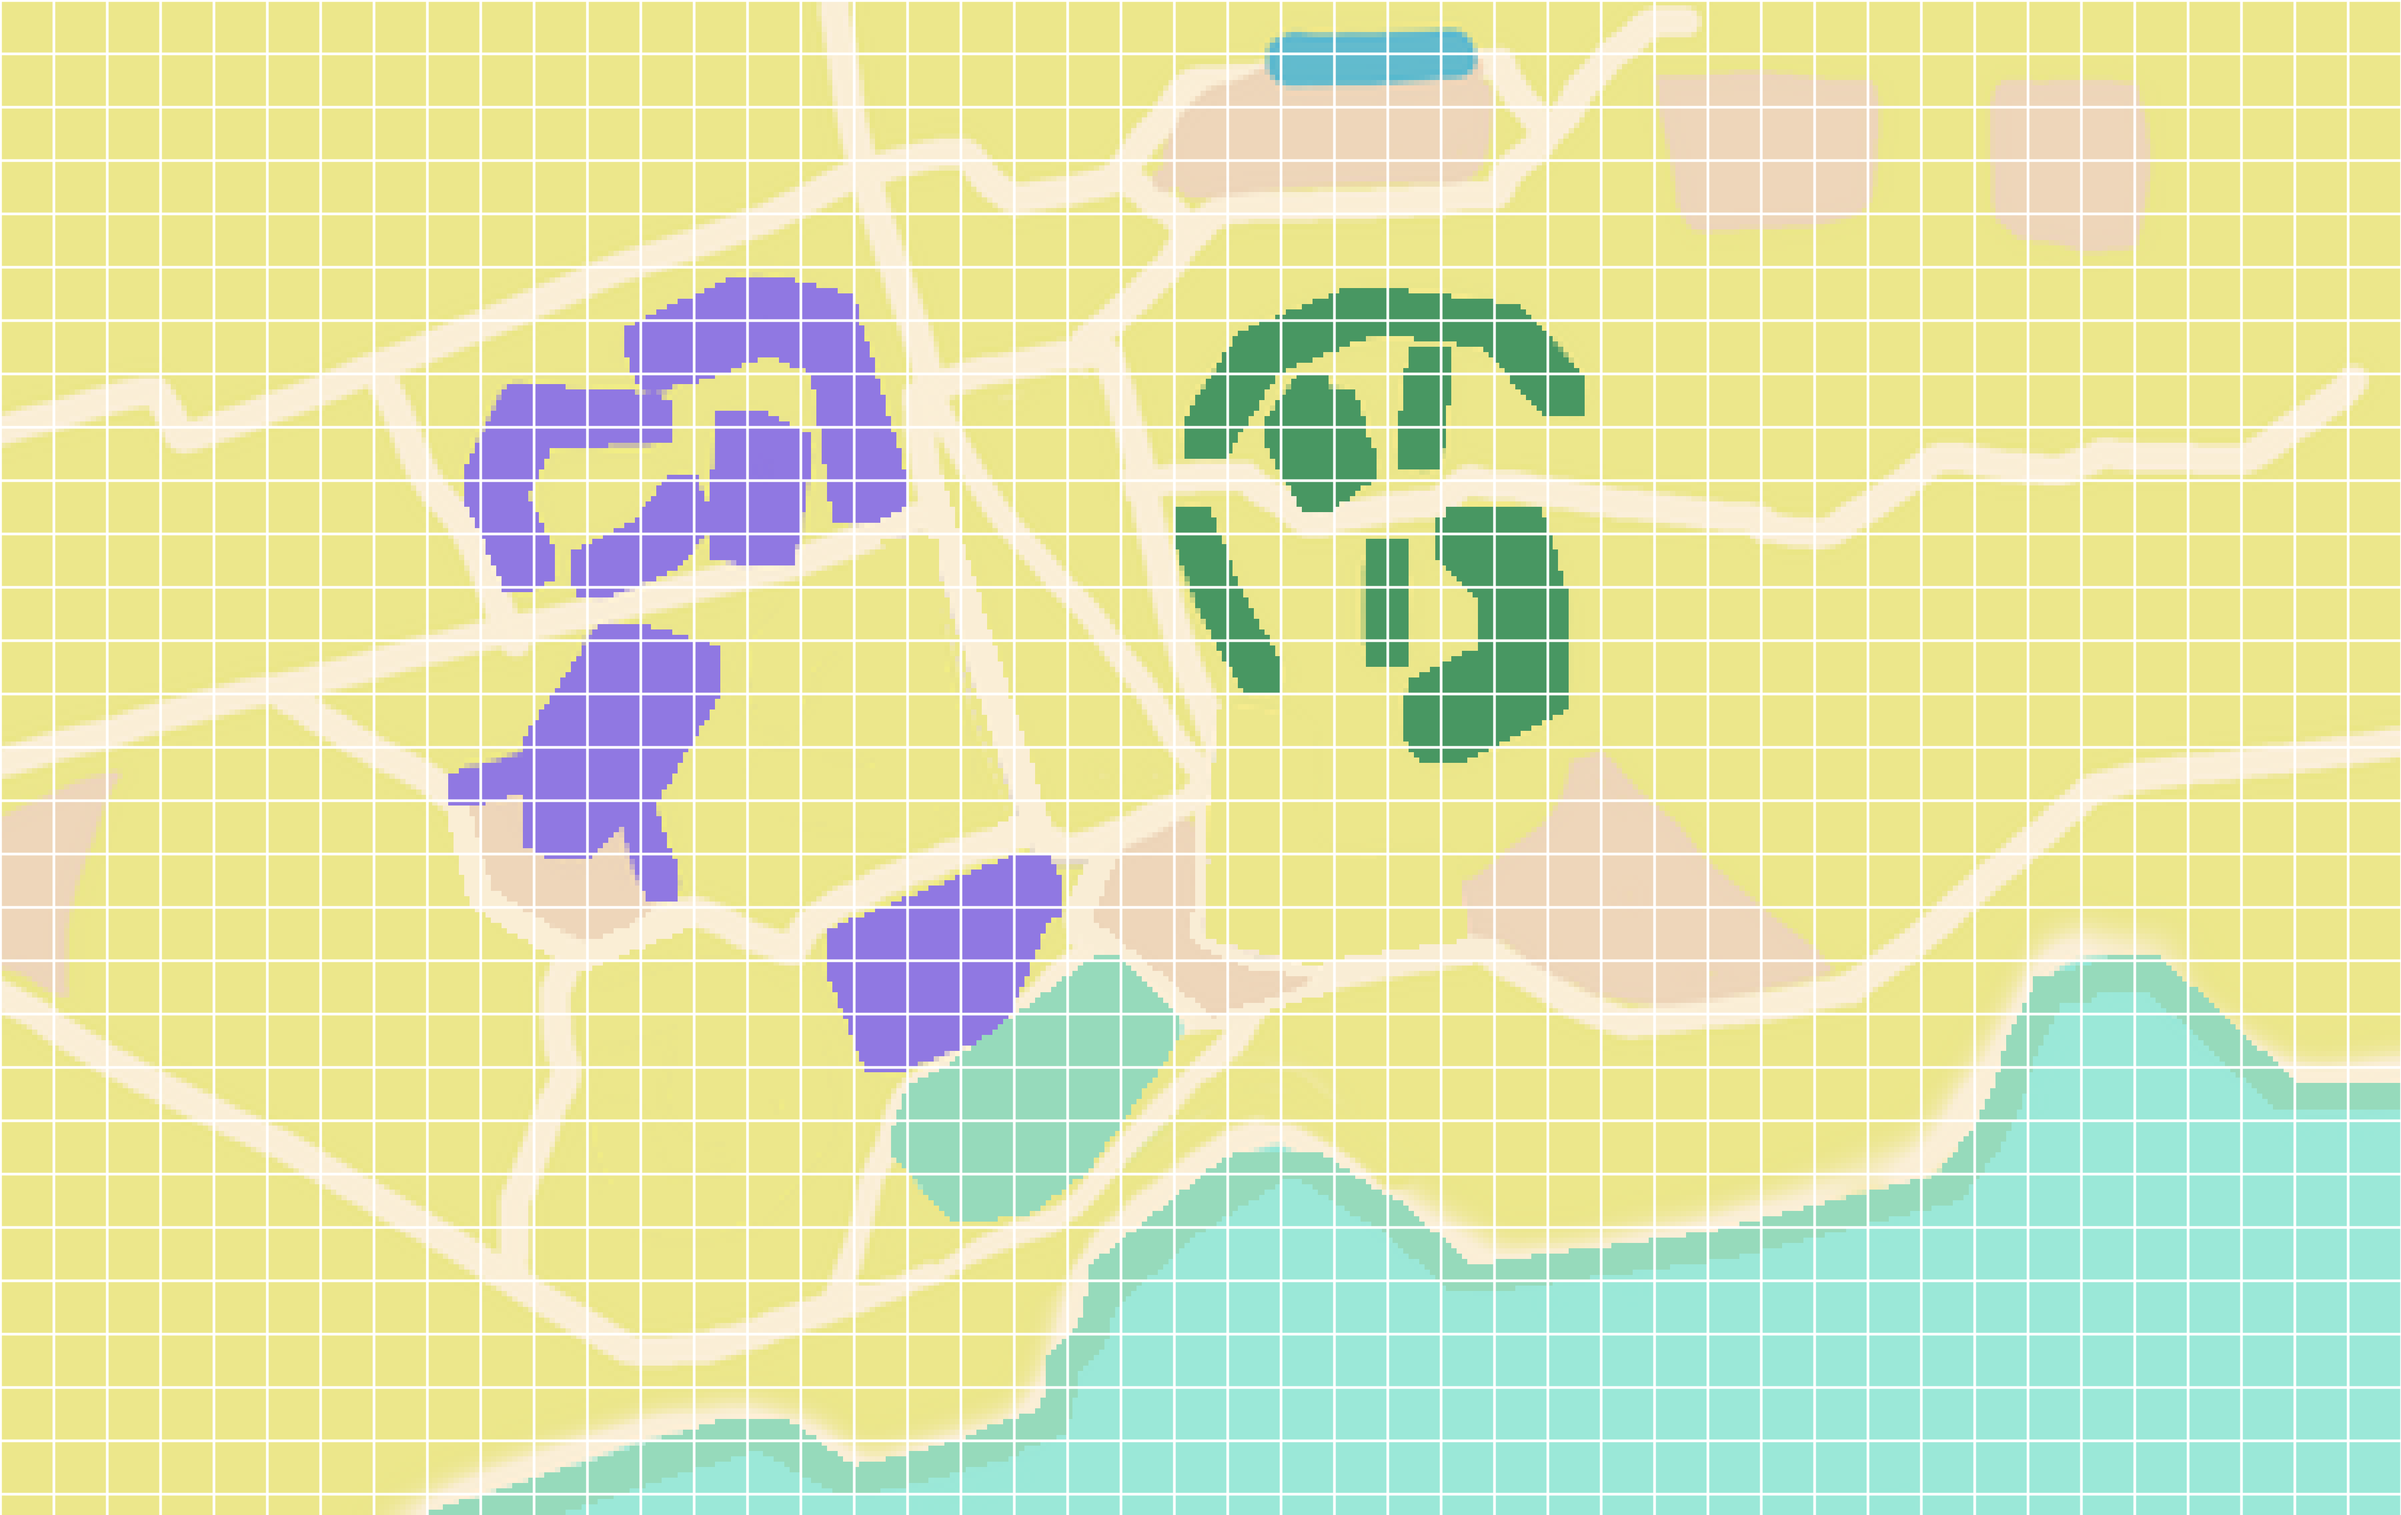
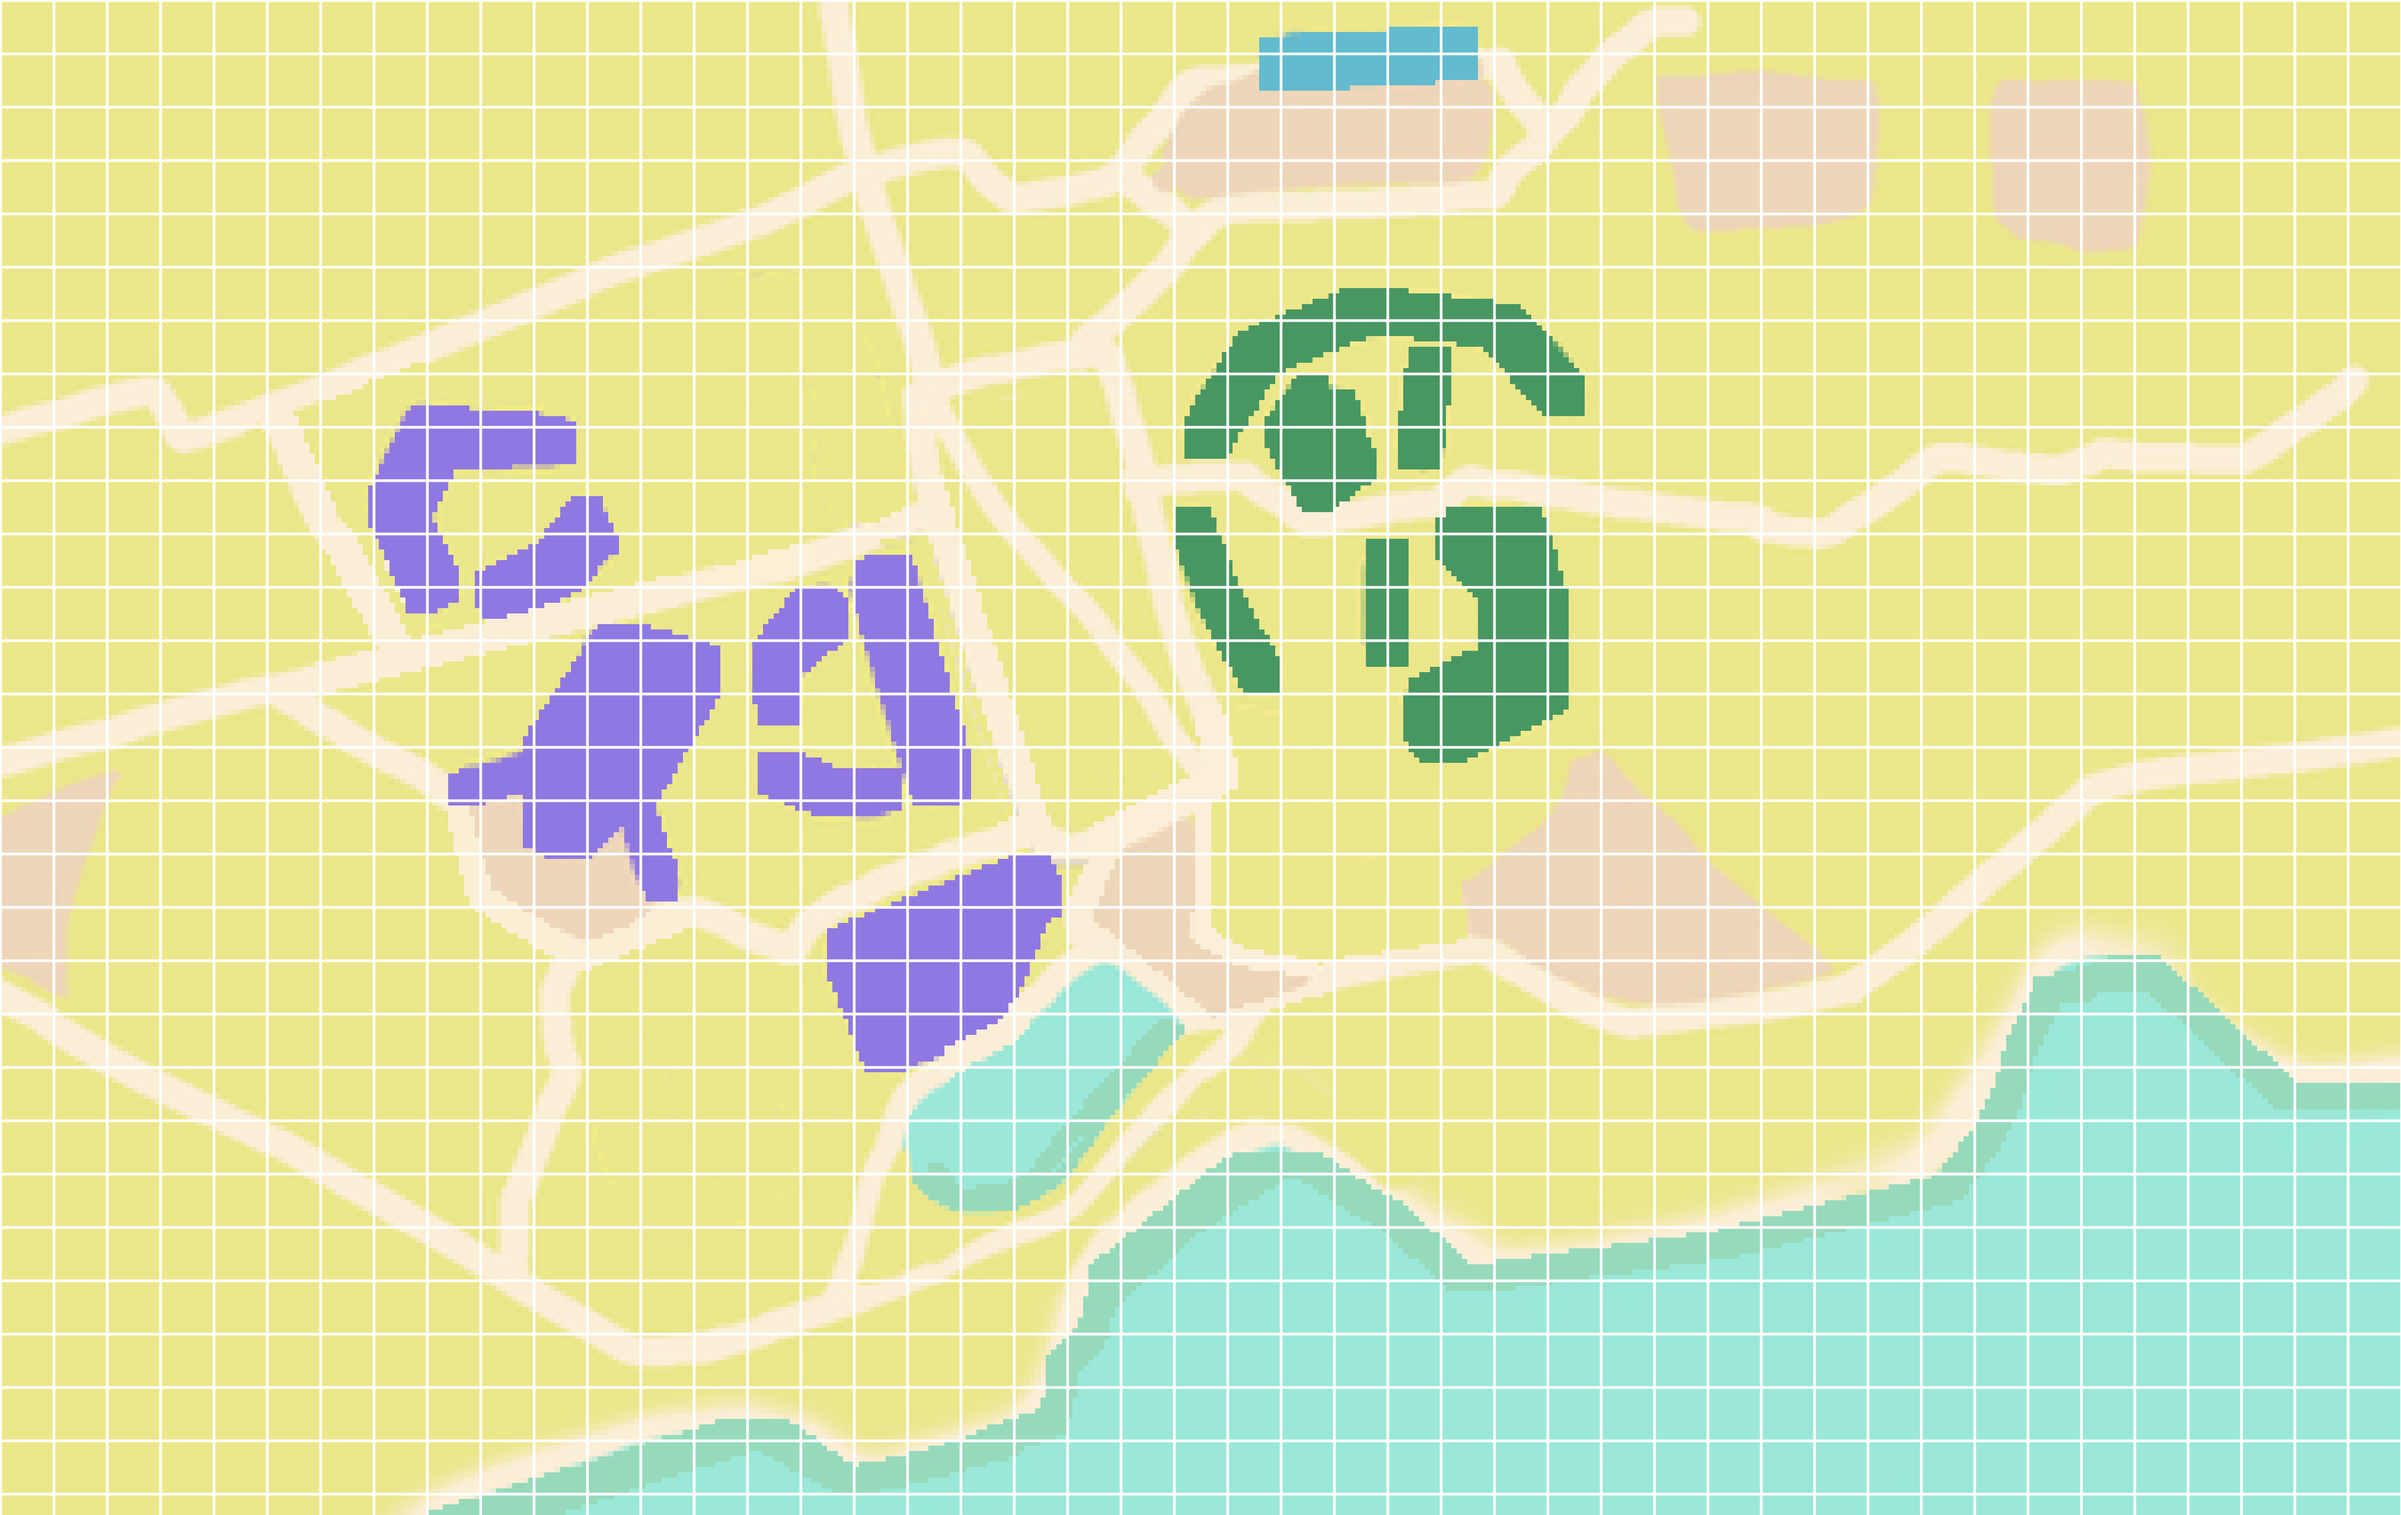
POIs in place

diff --git a/core/src/com/mygdx/game/systems/SystemUpdatePositionByVelocity.java b/core/src/com/mygdx/game/systems/SystemUpdatePositionByVelocity.java
@@ -27,13 +27,13 @@ public class SystemUpdatePositionByVelocity {
 
                 // We check the player is within bounds before changing position.
                 if ((0<position.getX() || velocity.getXSpeed()>0) &&
-                        (position.getX()<(3000 - position.getWidth())||velocity.getXSpeed()<0)) {
+                        (position.getX()<(4000 - position.getWidth())||velocity.getXSpeed()<0)) {
                     // We use deltaTime to avoid speed being tied to frame rate (which
                     // can vary from computer to computer).
                     position.setX(position.getX() +velocity.getXSpeed() * Gdx.graphics.getDeltaTime());
                 }
                 if ((0<position.getY() || velocity.getYSpeed()>0) &&
-                        (position.getY()<(1896 - position.getHeight())||velocity.getYSpeed()<0)) {
+                        (position.getY()<(2896 - position.getHeight())||velocity.getYSpeed()<0)) {
                     position.setY(position.getY() +velocity.getYSpeed() * Gdx.graphics.getDeltaTime());
                 }
             }

diff --git a/core/src/com/mygdx/game/MyGdxGame.java b/core/src/com/mygdx/game/MyGdxGame.java
@@ -41,9 +41,9 @@ public class MyGdxGame extends ApplicationAdapter {
 //		entities.add(new Accommodation(300,300, 100,100));
 
 		entities.add(new Library(1000, 450,50, 100)); //square may be a 50 pixel change
-		entities.add(new DuckPond(1505,505, 100,100));
-		entities.add(new Piazza(2150,950, 100,100));
-		entities.add(new Accommodation(1300,1300, 100,100));
+		entities.add(new DuckPond(1336,381, 100,100));
+		entities.add(new Piazza(2200,1000, 100,100));
+		entities.add(new Accommodation(1100,1950, 100,100));
 
 
 		updateInputSystem = new SystemUpdateInput();
